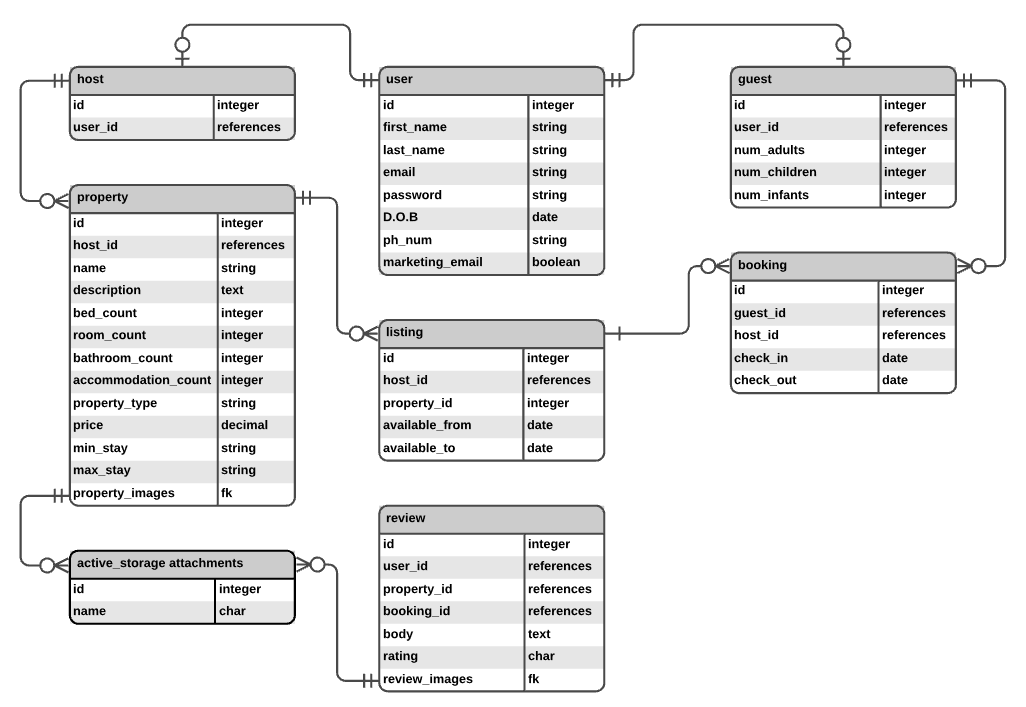
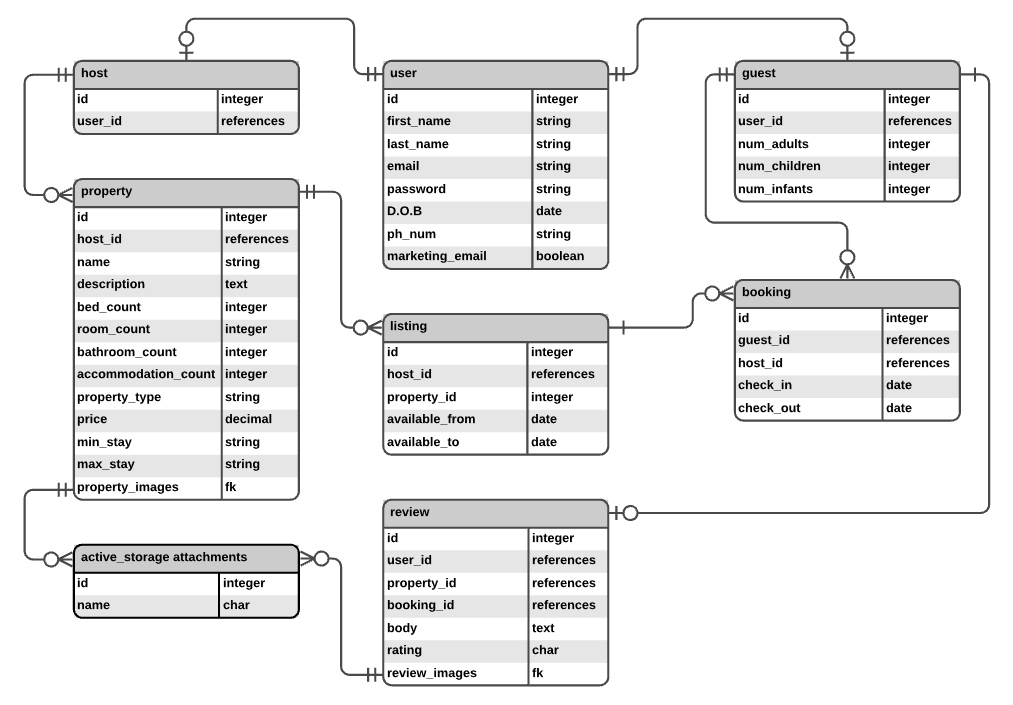
Q14

Changed region(s): [[0.0, 0.0, 0.9793, 0.9986], [0.9487, 0.7177, 0.9793, 0.7489]]

diff --git a/README.md b/README.md
@@ -229,12 +229,27 @@ Airbnb is hosted with Nginx, which is a HTTP and reverse procy server. Nginx all
 Nginx surpasses other hosting servers such as Apache, and continually strieves to be the fastest global web server. It has high performance, and can handle reverse proxying, cahing, load balancing and media streaming. This makes it ideal for high-traffic sites such as Airbnb.
 
 **c. Describe the interaction of technologies within the app.**
+Airbnb originally started with just using Ruby on Rails as the main framework, however, as the site began to get more traction, the scope of the project expanded. The developers at Airbnb began to incorporate tools such as GraphQL for backend-driven UI, which allows the developers to easily manage data. 
+
+The site is predominantly built using Ruby on Rails, while also incorporating JavaScript to provide more user functionality. The site is hosted with Nginx, and also uses Amazon S3 as remote storage, which is paired with Nginx to provides fast loading for images. 
+
+All data is stored and queried using MySQL, and is manipulated using DBMS.
 
 **d. Describe the way data is structured within the app.**
+The data within Airbnb is structured into multiple schemas, and are tracked using Apollo Engline. This allows developers to publish multiple schemas using tags, and offers flexibility so multiple developers can collaborate on a single schema. Once a schema is finalised, the updates are merged with the main schema. 
+
+Data is structured using a relational database model, which categorises different entities into tables, that are then connected through the relationships they have with each other. For example, A Host can have zero or many properties, and each of those properties can have zero or many property listings attached to it. A booking can then be connected to property once a guest books a stay in that property. Guests can book zero or many times, therefore the relationship is defined using zero to many.
+
+Each one of these entities has a table specific to them, and has applicable data stored in them. This is displayed in the ERD (part g).
 
 **e. Identify entities which must be tracked by the app.**
+The entities that are required to be tracked within Airbnb includes Users, which are seperated into either hosts or guests, Accommodation Properties, Property Listings, Bookings, Reviews and Active Sstorage Attachments. 
 
 **f. Identify the relationships and associations between the entities you have identified in part (e)**
+
+One user can have either zero or one host profiles, and can also have 0 or 1 guest profile. As a User, information related to the account is requested, and as either a host or a guest, different data is required. For example, if the User is a guest, they have the number of children attached to their guest profile.
+
+A host can have zero or many properties, which can in turn have zero or many listings of said properties. Each property can have zero or many bookings, through which guests can book zero or many available accommodation properties.
 
 **g. Design a schema using an Entity Relationship Diagram (ERD) appropriate for the database of this website (assuming a relational database model)**
 
